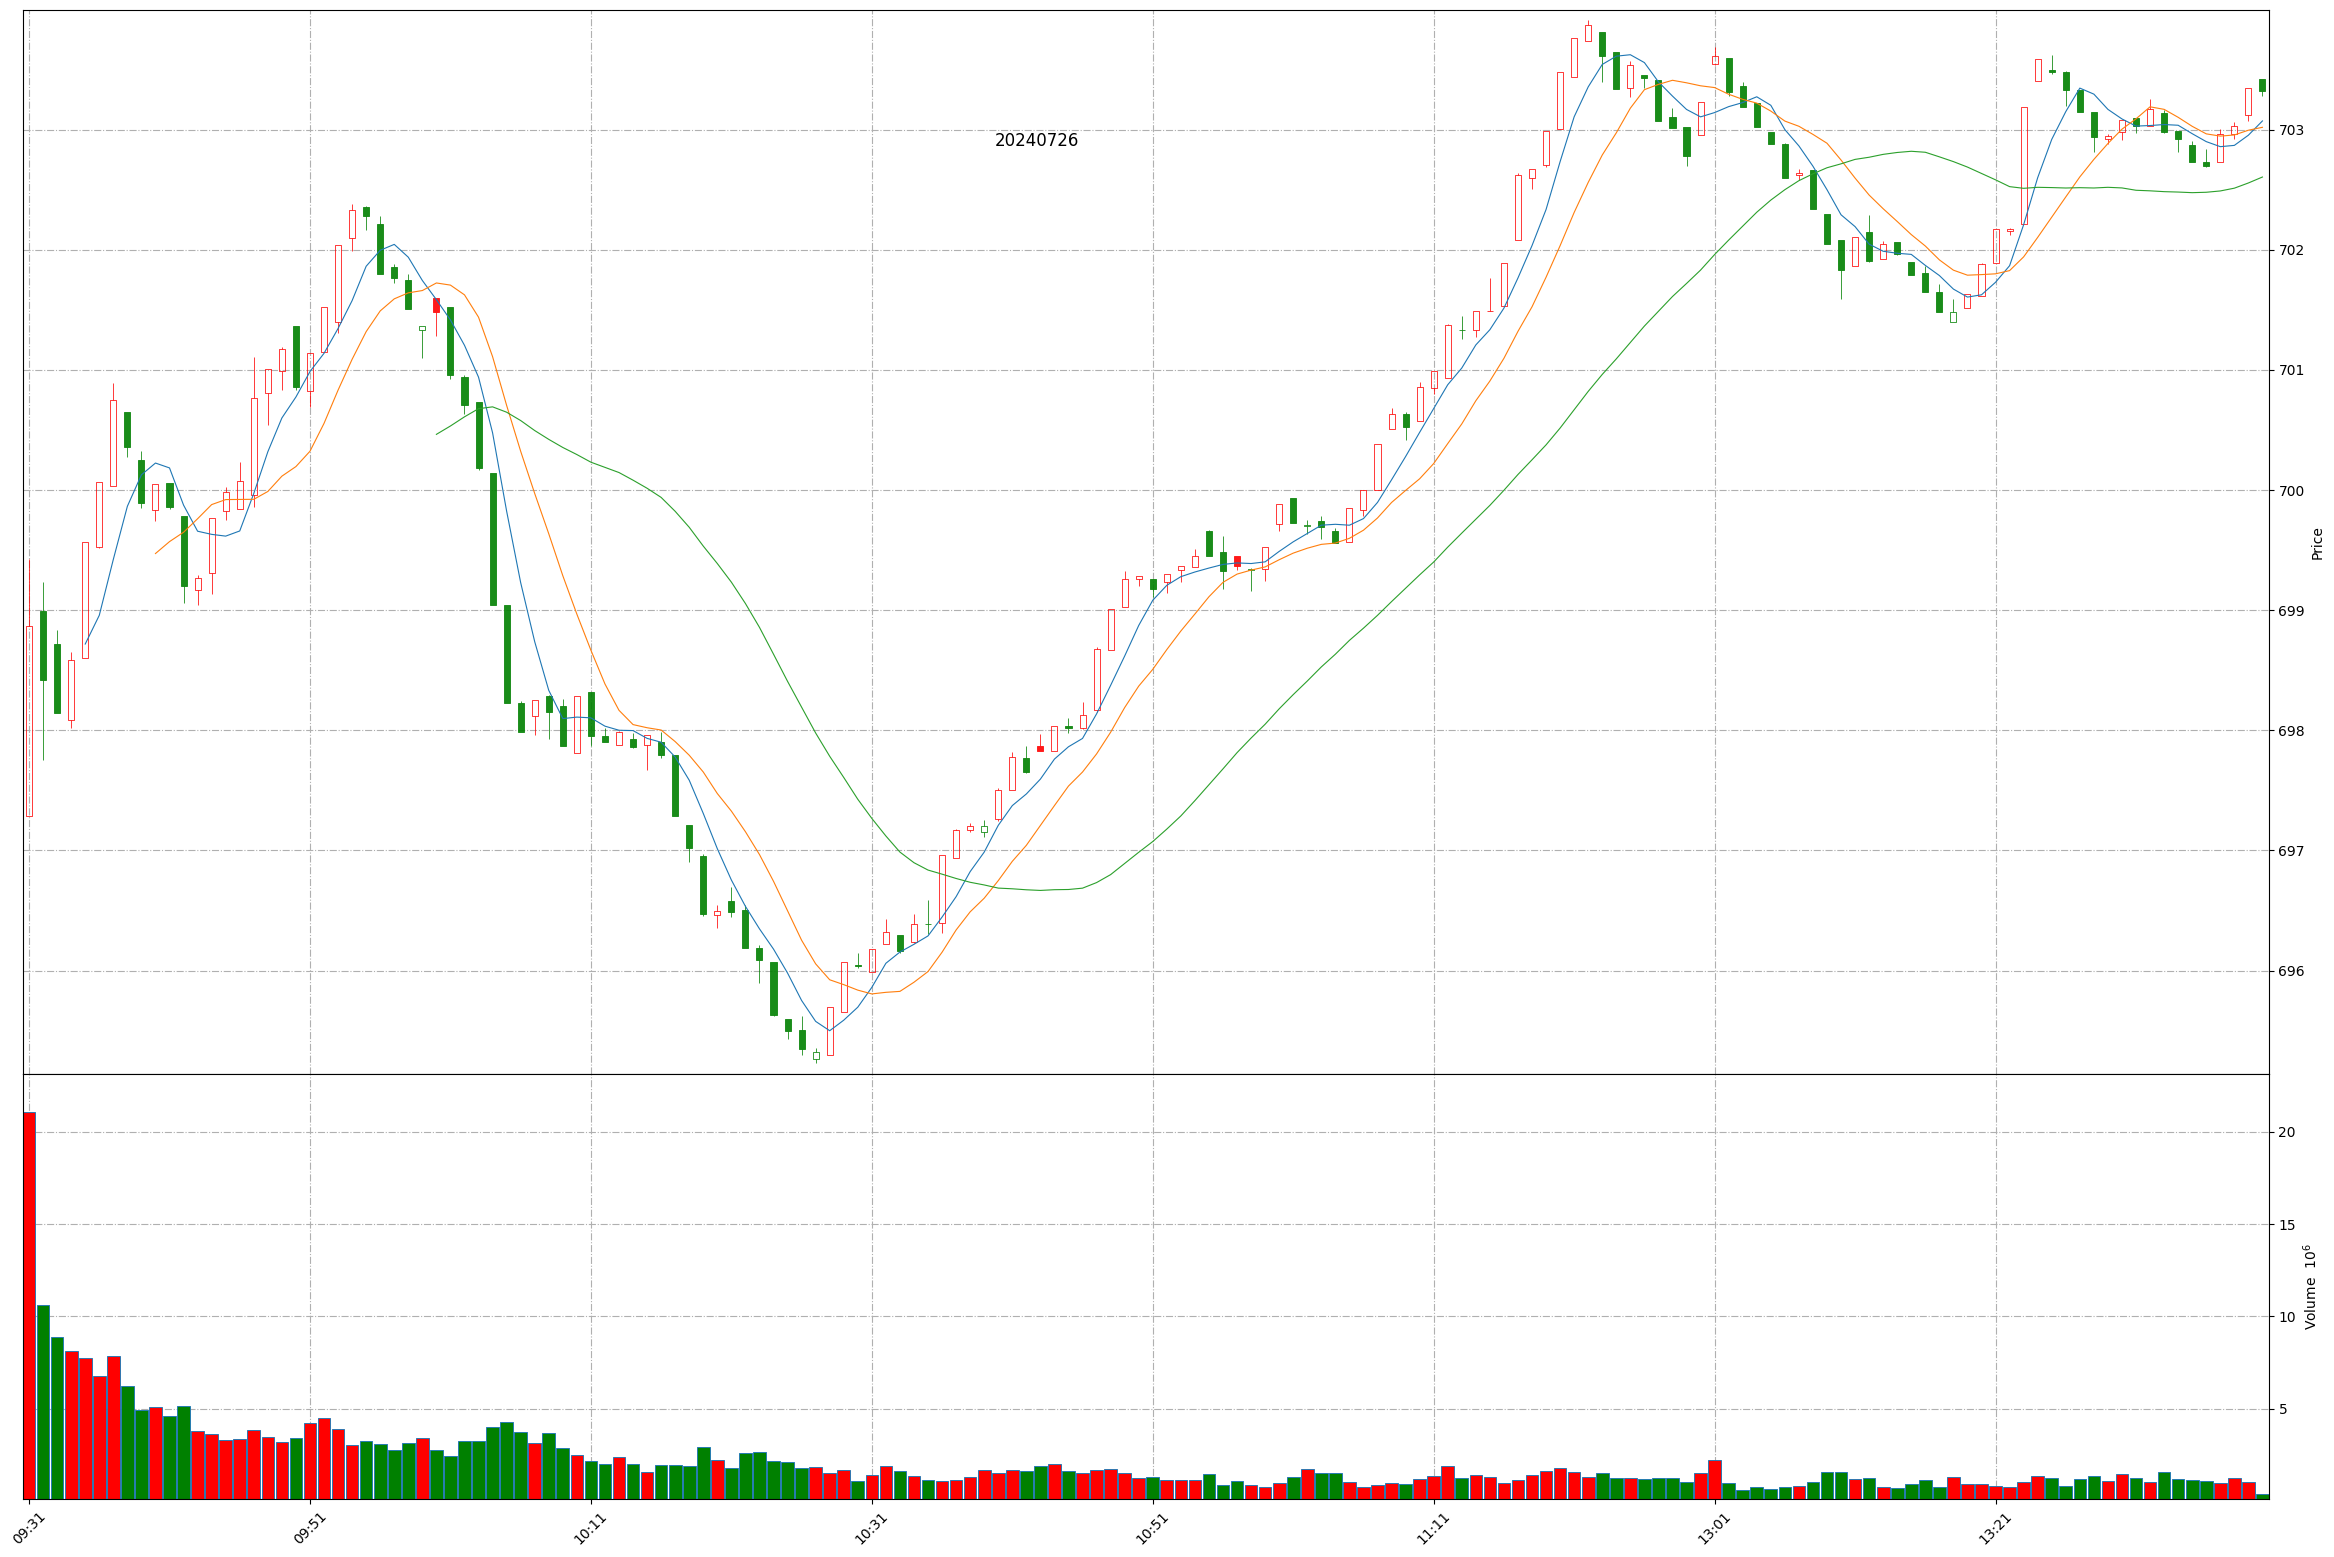
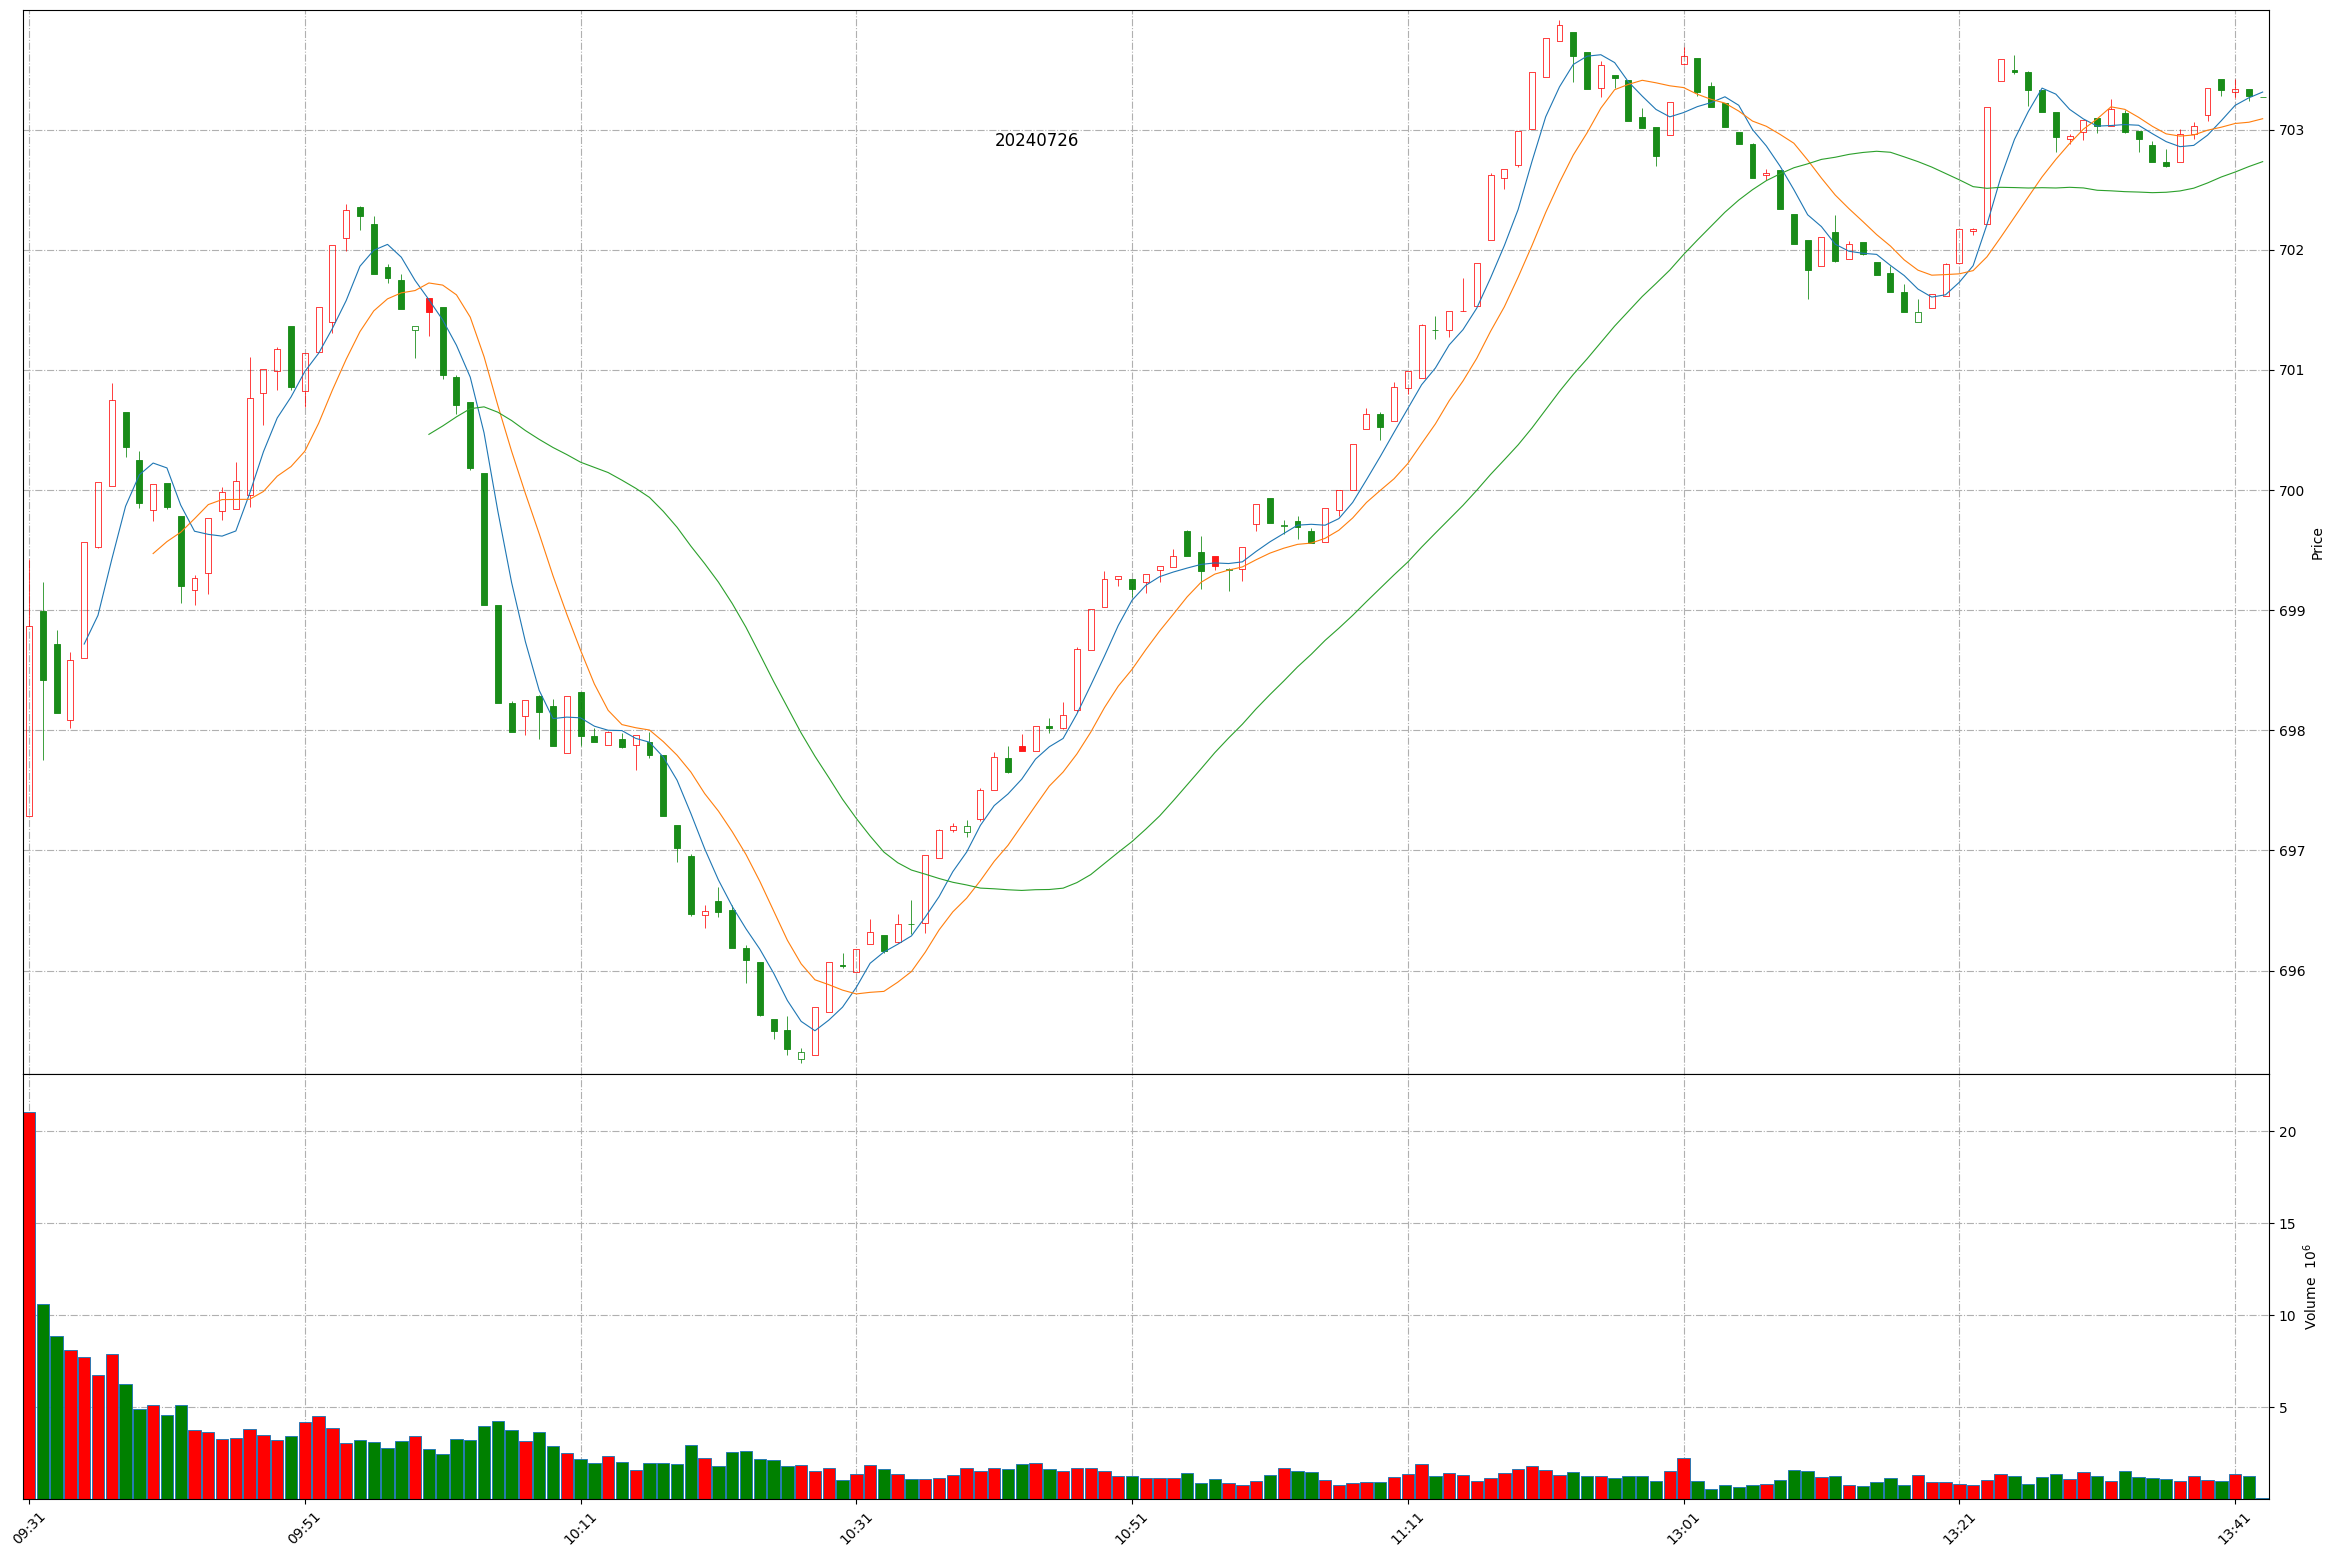
Github action update at 2024-07-26 13:42:26.

diff --git a/README.md b/README.md
@@ -1,11 +1,11 @@
 
 # Daily-A-share-market-quotes 每日 A 股指数（5min 更新）- 20240726
 
-### 上证指数 20240726 13:39
+### 上证指数 20240726 13:42
 ![](./fig/2024/7/20240726-sh000001.png)
 
-### 深证成指 20240726 13:39
+### 深证成指 20240726 13:42
 ![](./fig/2024/7/20240726-sz399001.png)
 
-### 北证50 20240726 13:39
+### 北证50 20240726 13:42
 ![](./fig/2024/7/20240726-bj899050.png)
